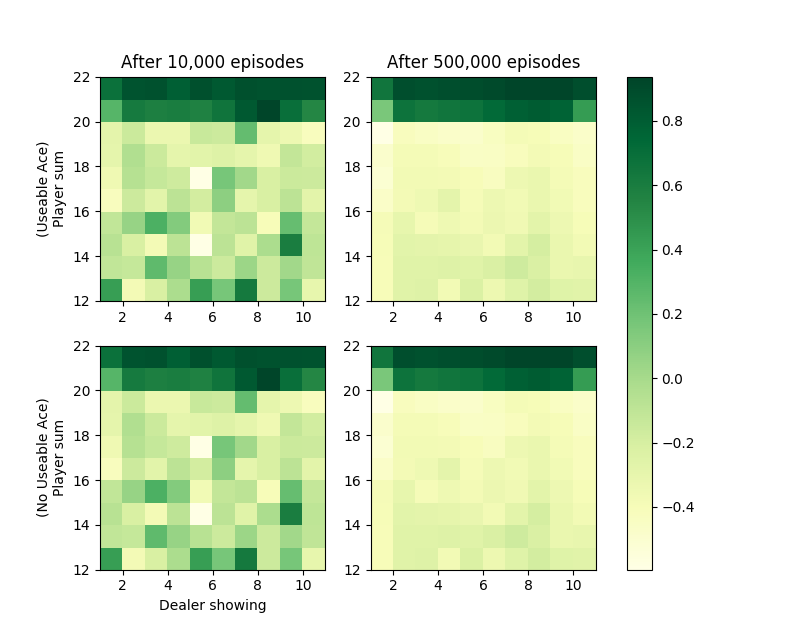
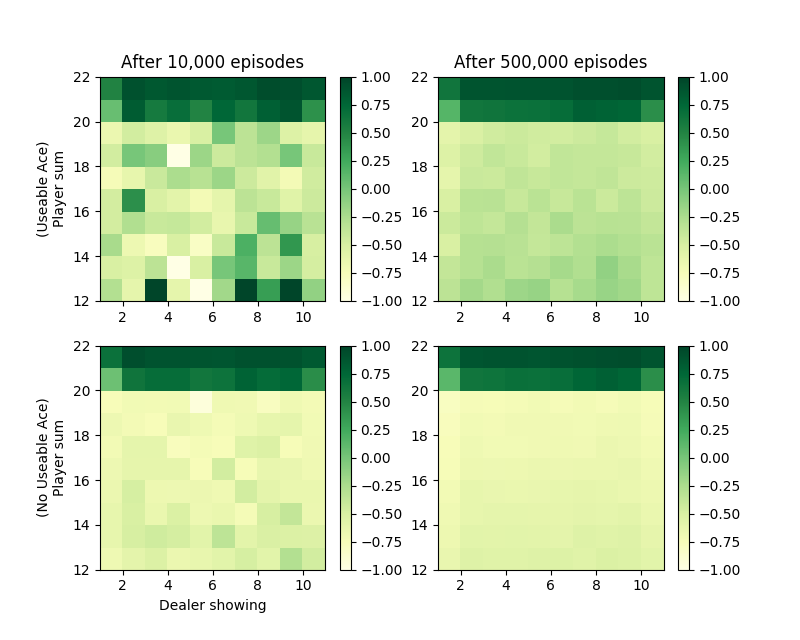
fix Figure 5.1 and add code for Figure 5.2

diff --git a/ReinforcementLearning/Chapter_5/main.swift b/ReinforcementLearning/Chapter_5/main.swift
@@ -4,11 +4,31 @@ import Python
 let plt = Python.import("matplotlib.pyplot")
 let np = Python.import("numpy")
 
-func first_visit_MC_iteration(v: inout [State: Double], returns: inout [State: [Int]]) {
+
+func initializePolicy() -> [State: Bool] {
+    // the default policy sticks if the player's sum is 20 or 21, else hits
+    var policy = [State: Bool]()
+    for isum in 12...21 {
+        for idealer in 1...10 {
+            if isum < 20 {
+                policy[State(isum, idealer, true)] = true
+                policy[State(isum, idealer, false)] = true
+            }
+            else {
+                policy[State(isum, idealer, true)] = false
+                policy[State(isum, idealer, false)] = false
+            }
+        }
+    }
+    return policy
+}
+
+func first_visit_MC_episode(v: inout [State: Double], returns: inout [State: [Int]]) {
     let blackJack = BlackJack()
     blackJack.startGame()
 
-    blackJack.runPlayerPolicy()
+    let policy = initializePolicy()
+    blackJack.runPlayerPolicy(policy: policy)
     blackJack.runDealerPolicy()
 
     // since all rewards within the game are 0, the total return is
@@ -16,11 +36,11 @@ func first_visit_MC_iteration(v: inout [State: Double], returns: inout [State: [
     let G = blackJack.computeReward()
 
     for (index, state) in blackJack.sequence.reversed().enumerated() {
-        let original_index = blackJack.sequence.count - index - 1
-        let preceding_states = blackJack.sequence[0..<original_index]
+        let originalIndex = blackJack.sequence.count - index - 1
+        let precedingStates = blackJack.sequence[0..<originalIndex]
 
         //first-visit
-        if !preceding_states.contains(state) {
+        if !precedingStates.contains(state) {
             if returns.keys.contains(state) {
                 returns[state]!.append(G)
             }
@@ -37,13 +57,16 @@ func run_mc_policy_evaluation(n: Int) -> [State: Double] {
     var returns = [State: [Int]]()
 
     for _ in 0..<n {
-        first_visit_MC_iteration(v: &v, returns: &returns)
+        first_visit_MC_episode(v: &v, returns: &returns)
     }
     return v
 }
 
-func fill_figure_5_1_subplot(ax: PythonObject, subplotIndex: (Int, Int),
+func fill_figure_5_1_subplot(figAndAx: (PythonObject, PythonObject), subplotIndex: (Int, Int),
                              values: [(Int, Int, Double)]) {
+    let fig = figAndAx.0
+    let ax = figAndAx.1
+
     let dealerRange = np.arange(1,12, 1)
     let sumRange = np.arange(12,23,1)
 
@@ -54,7 +77,7 @@ func fill_figure_5_1_subplot(ax: PythonObject, subplotIndex: (Int, Int),
     let row = subplotIndex.0
     let col = subplotIndex.1
     let h = ax[row][col].hist2d(valuesDealer, valuesSum, weights: valuesValue, cmap: "YlGn",
-                                bins: [dealerRange, sumRange])
+                                bins: [dealerRange, sumRange], vmin: -1, vmax: 1)
 
     if row == 1 && col == 0 {
         ax[row][col].set_xlabel("Dealer showing")
@@ -67,29 +90,167 @@ func fill_figure_5_1_subplot(ax: PythonObject, subplotIndex: (Int, Int),
     if row == 0 && col == 1 {
         ax[row][col].set_title("After 500,000 episodes")
     }
-    if row == 1 && col == 1 {
-        plt.colorbar(h[3], ax: ax)
-    }
+
+    fig.colorbar(h[3], ax: ax[row][col])
 }
 
 func make_figure_5_1() {
-
+    print("Generating Figure 5.1")
     let v10K = run_mc_policy_evaluation(n: 10000)
     let v500K = run_mc_policy_evaluation(n: 500000)
 
     let figAndAx = plt.subplots(nrows: 2, ncols: 2, figsize: [8, 6.4]).tuple2
-    let ax = figAndAx.1
-    let v10KUseableAce = v10K.filter{ $0.key.useableAce == true }.map{ ($0.key.dealer, $0.key.sum, $0.value) }
-    let v10KNoUseableAce = v10K.filter{ $0.key.useableAce == true }.map{ ($0.key.dealer, $0.key.sum, $0.value) }
-    let v500KUseableAce = v500K.filter{ $0.key.useableAce == true }.map{ ($0.key.dealer, $0.key.sum, $0.value) }
-    let v500KNoUseableAce = v500K.filter{ $0.key.useableAce == true }.map{ ($0.key.dealer, $0.key.sum, $0.value) }
 
-    fill_figure_5_1_subplot(ax: ax, subplotIndex: (0, 0), values: v10KUseableAce)
-    fill_figure_5_1_subplot(ax: ax, subplotIndex: (1, 0), values: v10KNoUseableAce)
-    fill_figure_5_1_subplot(ax: ax, subplotIndex: (0, 1), values: v500KUseableAce)
-    fill_figure_5_1_subplot(ax: ax, subplotIndex: (1, 1), values: v500KNoUseableAce)
+    // filtering out sum >21 for plotting purposes
+    // (hist2d bin plotting include the last bin edge)
+    let v10KUseableAce = v10K.filter{ $0.key.useableAce == true && $0.key.sum <= 21 }.map{ ($0.key.dealer, $0.key.sum, $0.value) }
+    let v10KNoUseableAce = v10K.filter{ $0.key.useableAce == false && $0.key.sum <= 21 }.map{ ($0.key.dealer, $0.key.sum, $0.value) }
+    let v500KUseableAce = v500K.filter{ $0.key.useableAce == true && $0.key.sum <= 21 }.map{ ($0.key.dealer, $0.key.sum, $0.value) }
+    let v500KNoUseableAce = v500K.filter{ $0.key.useableAce == false && $0.key.sum <= 21 }.map{ ($0.key.dealer, $0.key.sum, $0.value) }
+
+    fill_figure_5_1_subplot(figAndAx: figAndAx, subplotIndex: (0, 0), values: v10KUseableAce)
+    fill_figure_5_1_subplot(figAndAx: figAndAx, subplotIndex: (1, 0), values: v10KNoUseableAce)
+    fill_figure_5_1_subplot(figAndAx: figAndAx, subplotIndex: (0, 1), values: v500KUseableAce)
+    fill_figure_5_1_subplot(figAndAx: figAndAx, subplotIndex: (1, 1), values: v500KNoUseableAce)
 
     plt.savefig("Fig_5.1.png")
 }
 
+
+func first_visit_MC_q_episode(Q: inout [StateAction: Double],
+                              returns: inout [StateAction: [Int]],
+                              policy: inout [State: Bool]) {
+    let blackJack = BlackJack()
+
+    //randomly initialize game state and action
+    //blackJack.startGame()
+    blackJack.startRandomStateGame()
+    let action0 = Bool.random() // 1 for 'hit', 0 for 'stick'
+    blackJack.initializeStateActionSequence(action: action0)
+    if action0 {
+        blackJack.runPlayerPolicy(policy: policy)
+    }
+    blackJack.runDealerPolicy()
+
+    // since all rewards within the game are 0, the total return is
+    // just the final reward.
+    let G = blackJack.computeReward()
+    //print(blackJack.stateActionSequence)
+    for (index, stateAction) in blackJack.stateActionSequence.reversed().enumerated() {
+        let originalIndex = blackJack.stateActionSequence.count - index - 1
+        let precedingStateActions = blackJack.stateActionSequence[0..<originalIndex]
+
+        //first-visit
+        if !precedingStateActions.contains(stateAction) {
+            if returns.keys.contains(stateAction) {
+                returns[stateAction]!.append(G)
+            }
+            else {
+                returns[stateAction] = [G]
+            }
+            Q[stateAction] = Double(returns[stateAction]!.reduce(0, +)) / Double(returns[stateAction]!.count)
+
+            let maxQ = Q.filter{ $0.key.state == stateAction.state }.max{ a, b in a.value < b.value }
+            let bestAction = maxQ!.0.action
+            policy[stateAction.state] = bestAction
+        }
+    }
+}
+
+func run_mc_es(n: Int) -> ([State: Double], [State: Bool]) {
+    var Q = [StateAction: Double]()
+    var returns = [StateAction: [Int]]()
+    var policy = initializePolicy()
+
+    // initialize Q values to zero
+    for isum in 12...21 {
+        for idealer in 1...10 {
+            Q[StateAction(State(isum, idealer, true), false)] = 0.0
+            Q[StateAction(State(isum, idealer, true), true)] = 0.0
+            Q[StateAction(State(isum, idealer, false), false)] = 0.0
+            Q[StateAction(State(isum, idealer, false), true)] = 0.0
+        }
+    }
+
+    for _ in 0..<n {
+        first_visit_MC_q_episode(Q: &Q, returns: &returns, policy: &policy)
+    }
+
+    //derive state-value function from action-value function
+    var v = [State: Double]()
+    for (stateAction, value) in Q {
+        if v.keys.contains(stateAction.state) {
+            v[stateAction.state] = max(v[stateAction.state]!, value)
+        }
+        else {
+            v[stateAction.state] = value
+        }
+    }
+    return (v, policy)
+}
+
+func fill_figure_5_2_value_plot(figAndAx: (PythonObject, PythonObject),
+                                subplotIndex: (Int, Int),
+                                values: [(Int, Int, Double)]){
+    let fig = figAndAx.0
+    let ax = figAndAx.1
+
+    let valuesDealer = values.map{ $0.0 }
+    let valuesSum = values.map{ $0.1 }
+    let valuesValue = values.map{ $0.2 }
+    let dealerRange = np.arange(1,12, 1)
+    let sumRange = np.arange(12,23,1)
+
+    let row = subplotIndex.0
+    let col = subplotIndex.1
+    let h = ax[row][col].hist2d(valuesDealer, valuesSum, weights: valuesValue,
+                                cmap: (col == 0) ? "Greys" : "YlGn",
+                                bins: [dealerRange, sumRange],
+                                vmin: (col == 0) ? 0 : -1,
+                                vmax: 1)
+
+    if row == 1 && col == 0 {
+        ax[row][col].set_xlabel("Dealer showing")
+        ax[row][col].set_ylabel("(No Useable Ace)\nPlayer sum")
+    }
+    else if row == 0 && col == 0 {
+        ax[row][col].set_title("pi_*")
+        ax[row][col].set_ylabel("(Useable Ace)\nPlayer sum")
+
+        ax[row][col].text(0.05, 0.95, "STICK = white\nHIT = black",
+                          transform: ax[row][col].transAxes, fontsize: 12,
+                          verticalalignment: "top")
+    }
+    else if row == 0 && col == 1 {
+        ax[row][col].set_title("v_*")
+    }
+
+    if col == 1 {
+        fig.colorbar(h[3], ax: ax[row][col])
+    }
+}
+
+func make_figure_5_2() {
+    print("Generating Figure 5.2")
+    let vAndPolicy = run_mc_es(n: 1000000)
+    let v = vAndPolicy.0
+    let pi = vAndPolicy.1
+
+    let figAndAx = plt.subplots(nrows: 2, ncols: 2, figsize: [8, 6.4]).tuple2
+
+    let vUseableAce = v.filter{ $0.key.useableAce == true && $0.key.sum <= 21 }.map{ ($0.key.dealer, $0.key.sum, $0.value) }
+    let vNoUseableAce = v.filter{ $0.key.useableAce == false && $0.key.sum <= 21 }.map{ ($0.key.dealer, $0.key.sum, $0.value) }
+
+    let piUseableAce = pi.filter{ $0.key.useableAce == true && $0.key.sum <= 21 }.map{ ($0.key.dealer, $0.key.sum, $0.value == true ? 1.0 : 0.0) }
+    let piNoUseableAce = pi.filter{ $0.key.useableAce == false && $0.key.sum <= 21 }.map{ ($0.key.dealer, $0.key.sum, $0.value == true ? 1.0 : 0.0) }
+
+    fill_figure_5_2_value_plot(figAndAx: figAndAx, subplotIndex: (0, 1), values: vUseableAce)
+    fill_figure_5_2_value_plot(figAndAx: figAndAx, subplotIndex: (1, 1), values: vNoUseableAce)
+    fill_figure_5_2_value_plot(figAndAx: figAndAx, subplotIndex: (0, 0), values: piUseableAce)
+    fill_figure_5_2_value_plot(figAndAx: figAndAx, subplotIndex: (1, 0), values: piNoUseableAce)
+
+    plt.savefig("Fig_5.2.png")
+}
+
 make_figure_5_1()
+make_figure_5_2()

diff --git a/ReinforcementLearning/Chapter_5/BlackJack.swift b/ReinforcementLearning/Chapter_5/BlackJack.swift
@@ -41,16 +41,35 @@ extension State: Equatable {
   }
 }
 
+struct StateAction: Hashable {
+    let state: State
+    let action: Bool
+
+    init(_ s: State, _ a: Bool) {
+        state = s
+        action = a
+    }
+}
+
+extension StateAction: Equatable {
+  static func == (lhs: StateAction, rhs: StateAction) -> Bool {
+    return lhs.state == rhs.state &&
+      lhs.action == rhs.action
+  }
+}
+
 class BlackJack {
     var dealerCards = [Card]()
     var playerCards = [Card]()
     var playerNUseableAces: Int = 0
     var sequence = [State]()
+    var stateActionSequence = [StateAction]()
+    var currentState: State = State(0, 0, false)
 
-    func currentState() -> State {
-        return State(computePlayerHand(),
-                     min(viewDealerHand().value, 10),
-                     playerHasUsableAce())
+    func updateCurrentState() {
+        currentState = State(computePlayerHand(),
+                             min(viewDealerHand().value, 10),
+                             playerHasUsableAce())
     }
 
     // draw card from deck with replacement
@@ -63,12 +82,40 @@ class BlackJack {
         playerCards.append(drawCard())
         dealerCards.append(drawCard())
         dealerCards.append(drawCard())
-        sequence.append(currentState())
+        updateCurrentState()
+        sequence.append(currentState)
+    }
+
+    // for Monte Carlo ES, to get better stats on some states
+    func startRandomStateGame() {
+        let sum = Int.random(in: 12...21)
+        let dealer = Int.random(in: 1...10)
+        let useableAce = (sum == 21) ? true : Bool.random()
+
+        // pick any random cards that satisfy this state
+        dealerCards.append(Card(dealer, Suit.allCases.randomElement()!))
+        dealerCards.append(drawCard())
+        if useableAce {
+            playerCards.append(Card(1, Suit.allCases.randomElement()!))
+            playerCards.append(Card(sum-11, Suit.allCases.randomElement()!))
+        }
+        else {
+            playerCards.append(Card(10, Suit.allCases.randomElement()!))
+            playerCards.append(Card(sum-10, Suit.allCases.randomElement()!))
+        }
+        updateCurrentState()
+        sequence.append(currentState)
+    }
+
+    func initializeStateActionSequence(action: Bool) {
+        stateActionSequence.append(StateAction(currentState, action))
+        if action {
+            playerHit()
+        }
     }
 
     func playerHit(){
         playerCards.append(drawCard())
-        //print(playerCards)
     }
 
     func dealerHit(){
@@ -106,7 +153,7 @@ class BlackJack {
     func computeSum(hand: [Card]) -> Int {
         var sum = 0
         // if there are aces, treat them as 11's. If the sum exceeds
-        // 21, iteratively back the aces off to 1's.
+        // 21, back the aces off one by one to 1's.
         let nAce = nAces(hand: hand)
         for i in (0...nAce).reversed() {
             sum = sumWithNAces(hand: hand, nAces: i)
@@ -143,14 +190,18 @@ class BlackJack {
         return playerNUseableAces > 0
     }
 
-    // this policy sticks if the player's sum is 20 or 21, else hits
-    func runPlayerPolicy() {
-        var state = currentState()
-        while state.sum < 20 {
+
+    func runPlayerPolicy(policy: [State: Bool]) {
+        updateCurrentState()
+        var state = currentState
+        while policy.keys.contains(state) && policy[state]! {
             playerHit()
-            state = currentState()
+            stateActionSequence.append(StateAction(state, true))
+            updateCurrentState()
+            state = currentState
             sequence.append(state)
         }
+        stateActionSequence.append(StateAction(state, false))
     }
 
     // dealer policy is to hit if the sum is less than 17

diff --git a/README.md b/README.md
@@ -20,4 +20,4 @@ $ ./program
 | 2 | [2.2](ReinforcementLearning/Chapter_2/Fig_2.2.png), [2.3](ReinforcementLearning/Chapter_2/Fig_2.3.png), [2.4](ReinforcementLearning/Chapter_2/Fig_2.4.png), [2.5](ReinforcementLearning/Chapter_2/Fig_2.5.png), [2.6](ReinforcementLearning/Chapter_2/Fig_2.6.png) |
 | 3 | [3.2](ReinforcementLearning/Chapter_3/Fig_3.2.png), [3.5](ReinforcementLearning/Chapter_3/Fig_3.5.png) |
 | 4 | [4.1](ReinforcementLearning/Chapter_4/Fig_4.1.png), [4.2](ReinforcementLearning/Chapter_4/Fig_4.2.png), [4.3](ReinforcementLearning/Chapter_4/Fig_4.3.png) |
-| 5 | [5.1](ReinforcementLearning/Chapter_5/Fig_5.1.png) |
+| 5 | [5.1](ReinforcementLearning/Chapter_5/Fig_5.1.png), [5.2](ReinforcementLearning/Chapter_5/Fig_5.2.png) |
